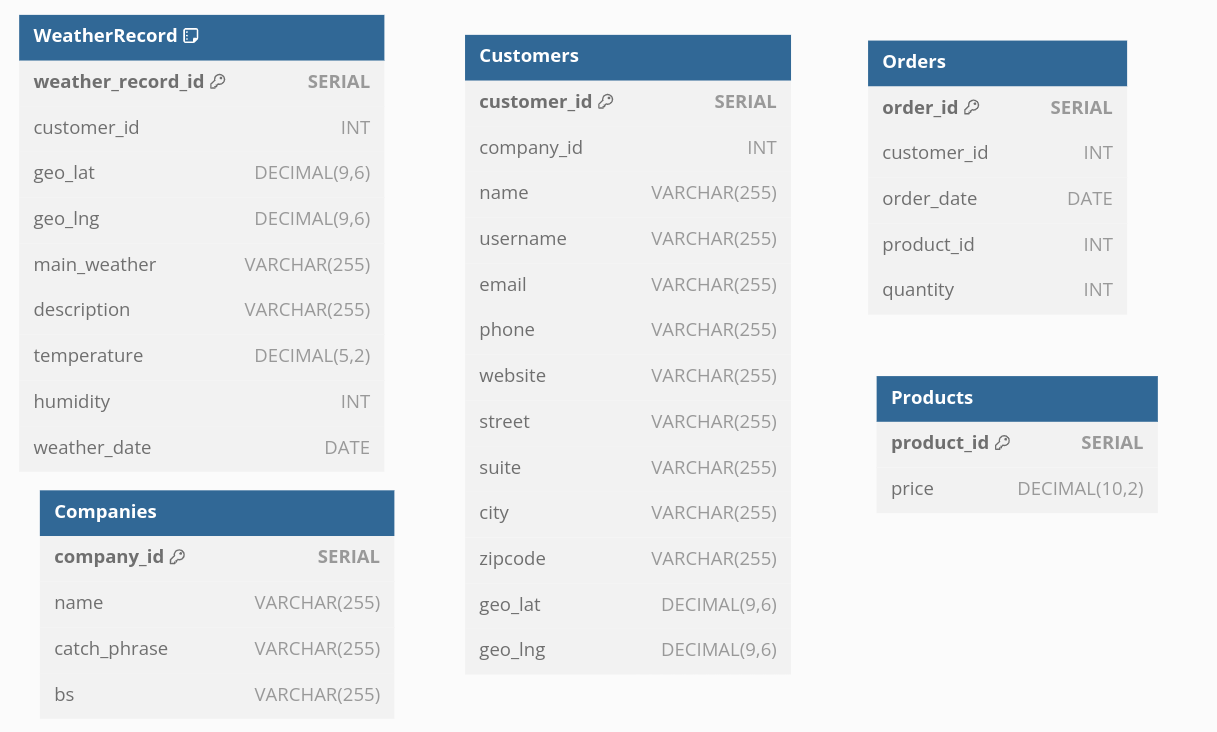
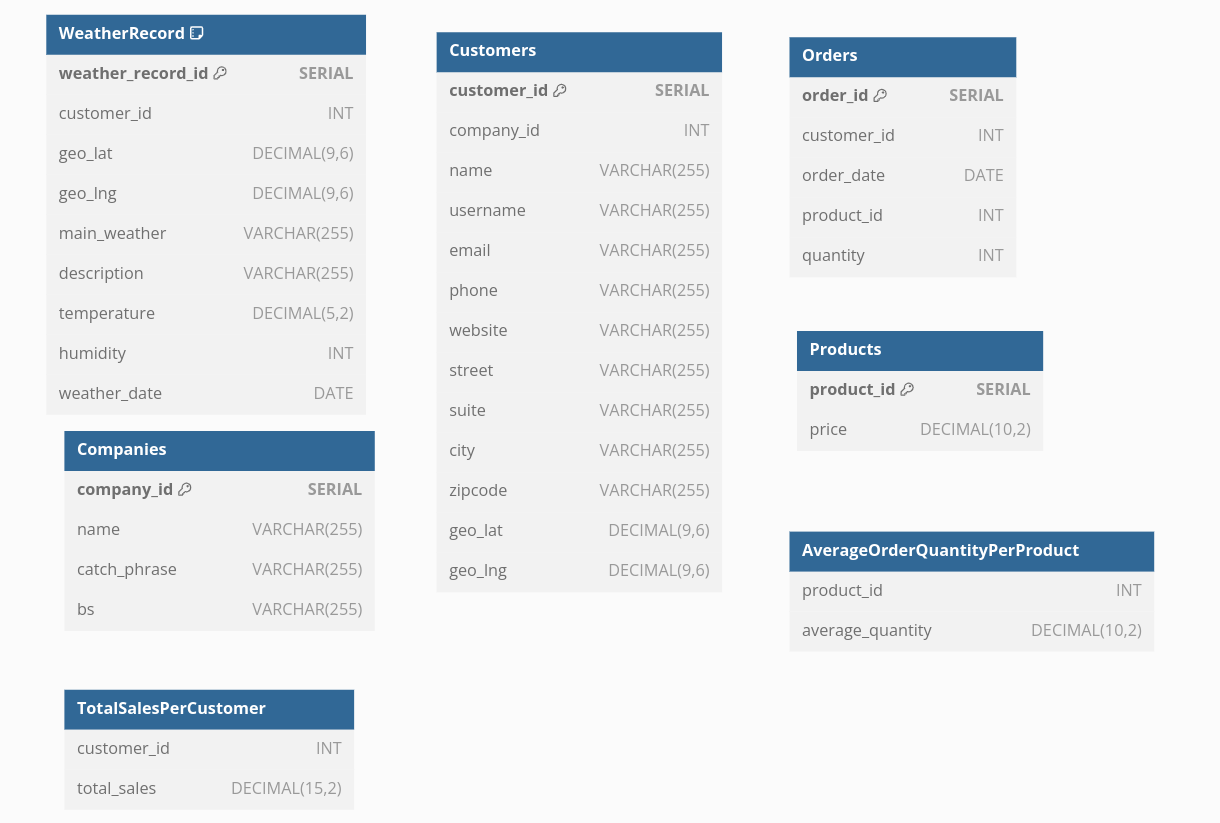
Adding aggregation

diff --git a/src/main.py b/src/main.py
@@ -1,12 +1,11 @@
 
 from extraction import DataExtractor
-from transforamtion import Transformation
+from transformation import Transformation
 from database_manager import DatabaseManager
-
 import json
 
 # Define the path to your configuration file
-config_file_path = 'path/to/config.json'
+config_file_path = '../config/config.json'
 
 
 # Read the configuration file
@@ -29,7 +28,7 @@ if data_extractor.sales_data is not None:
 
     # Enrich the sales data with user and weather data
     data_extractor.enrich_sales_data()
-    data_extractor.save_enriched_data_to_csv("../outputs/data.csv")
+    #data_extractor.save_enriched_data_to_csv("../outputs/data.csv")
     # Instantiate the Transformation class with the enriched sales data
     transformation = Transformation(data_extractor.sales_data)
     prepare_customer_data_test = transformation.prepare_customer_data()
@@ -42,7 +41,6 @@ if data_extractor.sales_data is not None:
     prepare_company_data_test = transformation.prepare_company_data()
     print(prepare_company_data_test)
     print("*******************************")
-    prepare_company_data_test.to_csv('../outputs/prepare_company_data_test.csv', index=False)
     
     prepare_orders_data_test = transformation.prepare_orders_data()
     print(prepare_orders_data_test)
@@ -66,7 +64,7 @@ if data_extractor.sales_data is not None:
 
     # Analyze sales trends over time and save to CSV
     sales_trends = transformation.analyze_sales_trends_over_time()
-    sales_trends.to_csv('../outputs/sales_trends.csv', index=True)
+    sales_trends.to_csv('../outputs/sales_trends_per_date.csv', index=True)
 
     # Include weather data in analysis and save to CSV
     weather_impact = transformation.include_weather_data_in_analysis()
@@ -83,8 +81,6 @@ db_manager.connect()
 # Create tables if they don't exist
 db_manager.create_tables()
 
-
-
 # Insert data (assuming you have dataframes for each table)
 # Convert dataframes to tuples for insertion
 customer_data = prepare_customer_data_test.to_records(index=False).tolist()
@@ -92,23 +88,22 @@ product_data = prepare_product_data_test.to_records(index=False).tolist()
 orders_data = prepare_orders_data_test.to_records(index=False).tolist()
 weather_data = prepare_weather_data_test.to_records(index=False).tolist()
 company_data = prepare_company_data_test.to_records(index=False).tolist()
+total_sales_per_customer = total_sales_per_customer.to_records(index=False).tolist()
+average_order_quantity_per_product = average_order_quantity_per_product.to_records(index=False).tolist()
 
 # Insert data into tables
-# Downs are working 
 db_manager.insert_weather_data(weather_data)
 db_manager.insert_company_data(company_data)
 db_manager.insert_customer_data(customer_data)
-
 db_manager.insert_product_data(product_data)
 db_manager.insert_orders_data(orders_data)
+db_manager.insert_total_sales_per_customer(total_sales_per_customer)
+db_manager.insert_average_order_quantity_per_product(average_order_quantity_per_product)
 
 
 db_manager.show_company_table()
 db_manager.show_orders_table()
 db_manager.show_weather_record_table()
-# The above code is attempting to print the row count of the "Orders" table using a function called
-# `get_table_row_count` from a `db_manager` object.
-print(db_manager.get_table_row_count("Orders"))
 # Close the database connection
-
+db_manager.close()
 

diff --git a/src/database_manager.py b/src/database_manager.py
@@ -68,6 +68,16 @@ class DatabaseManager:
                 humidity INTEGER,
                 weather_date DATE,
                 FOREIGN KEY (customer_id) REFERENCES Customers (customer_id)
+            )''',
+            '''CREATE TABLE IF NOT EXISTS TotalSalesPerCustomer (
+            customer_id INTEGER PRIMARY KEY,
+            total_sales REAL,
+            FOREIGN KEY (customer_id) REFERENCES Customers (customer_id)
+            )''',
+            '''CREATE TABLE IF NOT EXISTS AverageOrderQuantityPerProduct (
+            product_id INTEGER PRIMARY KEY,
+            average_quantity REAL,
+            FOREIGN KEY (product_id) REFERENCES Products (product_id)
             )'''
         ]
         for command in commands:
@@ -120,6 +130,32 @@ class DatabaseManager:
                 print(f"Company not found for name: {company_name}")
                 continue  # Skip this customer or handle the case as needed
             
+        self.conn.commit()
+
+
+    def insert_total_sales_per_customer(self, data):
+        """
+        Inserts total sales data per customer into the TotalSalesPerCustomer table.
+        
+        Parameters:
+        - data: A list of tuples, where each tuple contains:
+            - customer_id (int): The customer's ID.
+            - total_sales (float): The total sales amount for the customer.
+        """
+        query = '''INSERT INTO TotalSalesPerCustomer (customer_id, total_sales) VALUES (?, ?) ON CONFLICT(customer_id) DO UPDATE SET total_sales = excluded.total_sales'''
+        self.cursor.executemany(query, data)
+        self.conn.commit()
+    def insert_average_order_quantity_per_product(self, data):
+        """
+        Inserts average order quantity data per product into the AverageOrderQuantityPerProduct table.
+        
+        Parameters:
+        - data: A list of tuples, where each tuple contains:
+            - product_id (int): The product's ID.
+            - average_quantity (float): The average order quantity for the product.
+        """
+        query = '''INSERT INTO AverageOrderQuantityPerProduct (product_id, average_quantity) VALUES (?, ?) ON CONFLICT(product_id) DO UPDATE SET average_quantity = excluded.average_quantity'''
+        self.cursor.executemany(query, data)
         self.conn.commit()
 
 

diff --git a/src/transformation.py b/src/transformation.py
@@ -105,13 +105,25 @@ class Transformation:
 
 
     def calculate_total_sales_per_customer(self):
-        """Calculates total sales amount per customer."""
+        """Calculates total sales amount per customer and returns a DataFrame."""
+        # Calculate the sales amount by multiplying quantity by price
         self.sales_data['sales_amount'] = self.sales_data['quantity'] * self.sales_data['price']
-        return self.sales_data.groupby('customer_id')['sales_amount'].sum()
+        
+        # Group by customer_id and sum sales_amount, then reset index to make customer_id a column
+        total_sales_per_customer = self.sales_data.groupby('customer_id')['sales_amount'].sum().reset_index()
+        
+        # Optionally, rename the columns for clarity
+        total_sales_per_customer.columns = ['customer_id', 'total_sales']
+        
+        return total_sales_per_customer
+
 
     def determine_average_order_quantity_per_product(self):
-        """Determines the average order quantity per product."""
-        return self.sales_data.groupby('product_id')['quantity'].mean()
+        """Determines the average order quantity per product and returns a DataFrame."""
+        avg_quantity_per_product = self.sales_data.groupby('product_id')['quantity'].mean().reset_index()
+        avg_quantity_per_product.columns = ['product_id', 'average_quantity']
+        return avg_quantity_per_product
+
 
     def identify_top_selling_products_or_customers(self):
         """Identifies the top-selling products or customers."""

diff --git a/src/extraction.py b/src/extraction.py
@@ -47,7 +47,7 @@ class DataExtractor:
         lat, lon = geo['lat'], geo['lng']
         response = requests.get(f'http://api.openweathermap.org/data/2.5/weather',
                                 params={'lat': lat, 'lon': lon, 'appid': self.weather_api_key})
-        print("OUT")
+        print("fetching weather data")
         return response.json() if response.status_code == 200 else print("Weather data not found.")
 
     def enrich_sales_data(self):
